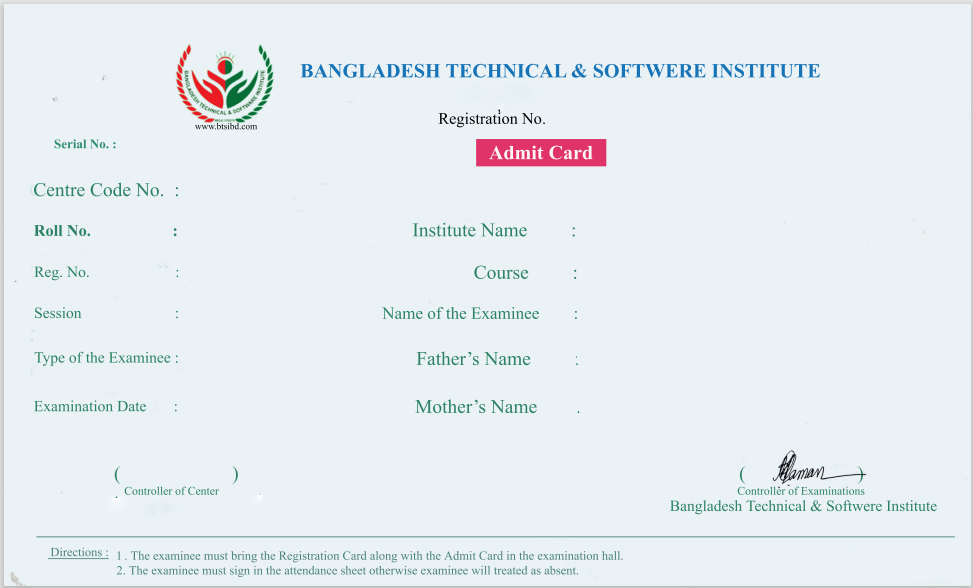
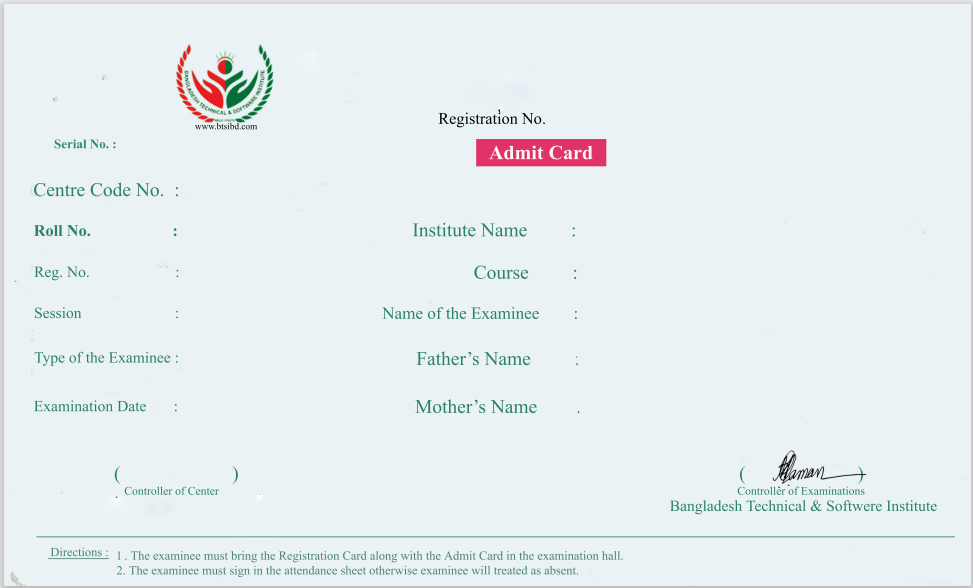
fix admit card

Changed region(s): [[0.3083, 0.0918, 0.8325, 0.1531]]

diff --git a/public/css/app.css b/public/css/app.css
@@ -767,6 +767,30 @@ select {
 .top-\[20\.3\%\] {
   top: 20.3%;
 }
+.top-\[10\.3\%\] {
+  top: 10.3%;
+}
+.top-\[18\.3\%\] {
+  top: 18.3%;
+}
+.top-\[8\.3\%\] {
+  top: 8.3%;
+}
+.top-\[7\.3\%\] {
+  top: 7.3%;
+}
+.left-\[30\.5\%\] {
+  left: 30.5%;
+}
+.top-\[8\%\] {
+  top: 8%;
+}
+.top-\[8\.5\%\] {
+  top: 8.5%;
+}
+.top-\[9\%\] {
+  top: 9%;
+}
 .z-0 {
   z-index: 0;
 }
@@ -1770,6 +1794,14 @@ select {
   --tw-shadow-colored: 0 10px 15px -3px var(--tw-shadow-color), 0 4px 6px -4px var(--tw-shadow-color);
   box-shadow: var(--tw-ring-offset-shadow, 0 0 #0000), var(--tw-ring-shadow, 0 0 #0000), var(--tw-shadow);
 }
+.shadow-black {
+  --tw-shadow-color: #000;
+  --tw-shadow: var(--tw-shadow-colored);
+}
+.shadow-\[\#438FC4\] {
+  --tw-shadow-color: #438FC4;
+  --tw-shadow: var(--tw-shadow-colored);
+}
 .outline-none {
   outline: 2px solid transparent;
   outline-offset: 2px;
@@ -1789,6 +1821,10 @@ select {
 }
 .ring-opacity-5 {
   --tw-ring-opacity: 0.05;
+}
+.drop-shadow-lg {
+  --tw-drop-shadow: drop-shadow(0 10px 8px rgb(0 0 0 / 0.04)) drop-shadow(0 4px 3px rgb(0 0 0 / 0.1));
+  filter: var(--tw-blur) var(--tw-brightness) var(--tw-contrast) var(--tw-grayscale) var(--tw-hue-rotate) var(--tw-invert) var(--tw-saturate) var(--tw-sepia) var(--tw-drop-shadow);
 }
 .filter {
   filter: var(--tw-blur) var(--tw-brightness) var(--tw-contrast) var(--tw-grayscale) var(--tw-hue-rotate) var(--tw-invert) var(--tw-saturate) var(--tw-sepia) var(--tw-drop-shadow);

diff --git a/resources/views/student/admit.blade.php b/resources/views/student/admit.blade.php
@@ -21,11 +21,12 @@
         }
     </style>
     <div class="w-full mt-8 bg-white   ">
-        <div class="r-bg relative text-gray-500" style="background-image: url({{asset('images/admit.png')}});font-family: Apple">
+        <div class="r-bg relative text-gray-500" style="background-image: url({{asset('images/admit.png')}});font-family: 'Times New Roman'">
             <div class="absolute top-[20.3%] left-[70.5%] w-38 text-xs font-bold text-left">
                 <img class="w-20 h-20" src="{{$student->picture}}" alt="">
             </div>
-            <div class="absolute top-[13.3%] left-[41.5%] text-[#1C77B9] uppercase  tracking-[3px] text-lg font-bold w-38 text-xs tracking-y-[20px] font-bold text-left">{{$student->subject->name  .'-'.   date('y',strtotime($student->session->start_date))??''}}</div>
+            <div class="absolute top-[9%] left-[30.5%] text-[#1C77B9]      text-xl font-bold   w-38    text-left uppercase">Bangladesh Technical & Software Institute</div>
+            <div class="absolute top-[13.3%] left-[41.5%] text-[#1C77B9] uppercase  tracking-[3px] text-lg font-bold   w-38  tracking-y-[20px]  text-left">{{$student->subject->name  .'-'.   date('y',strtotime($student->session->start_date))??''}}</div>
             <div class="absolute top-[23.3%] left-[12.5%] w-38 text-xs font-bold text-left">{{$student->id??''}}</div>
             <div class="absolute top-[19%] left-[56.5%] w-38 text-sm font-bold text-left">C-{{$student->center->code??''}}/{{date('y',strtotime($student->session->start_date))}} </div>
             <div class="absolute top-[31%] left-[19.5%] w-38 text-xs font-bold text-left">{{$student->center->code??''}}</div>
